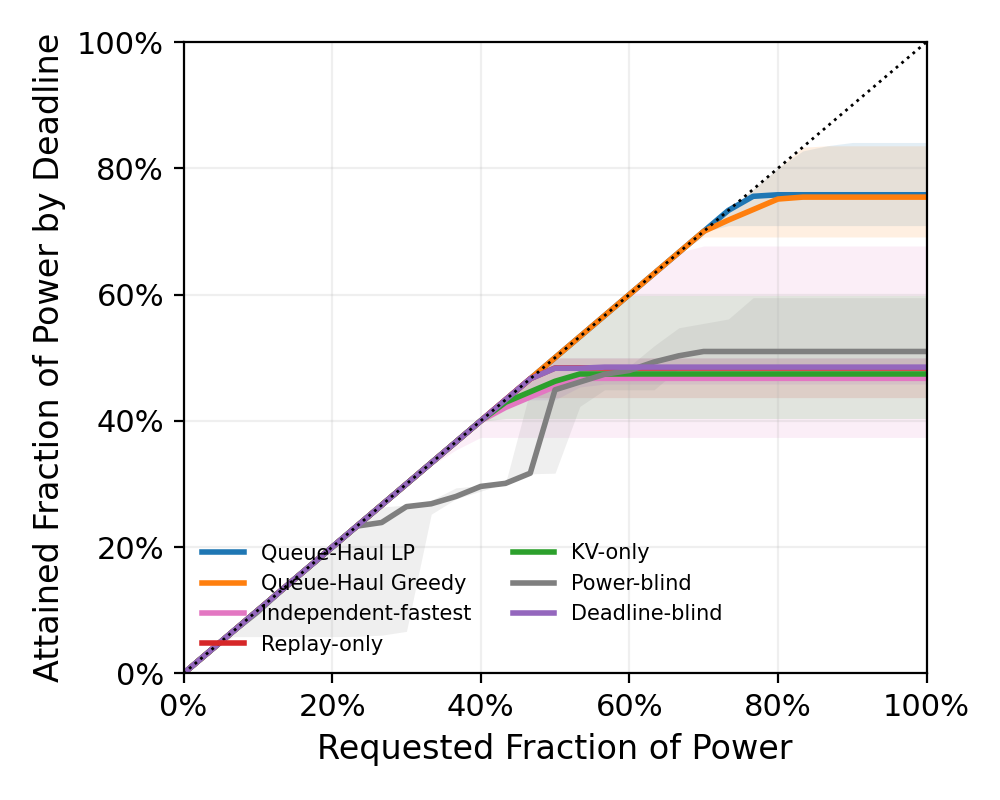
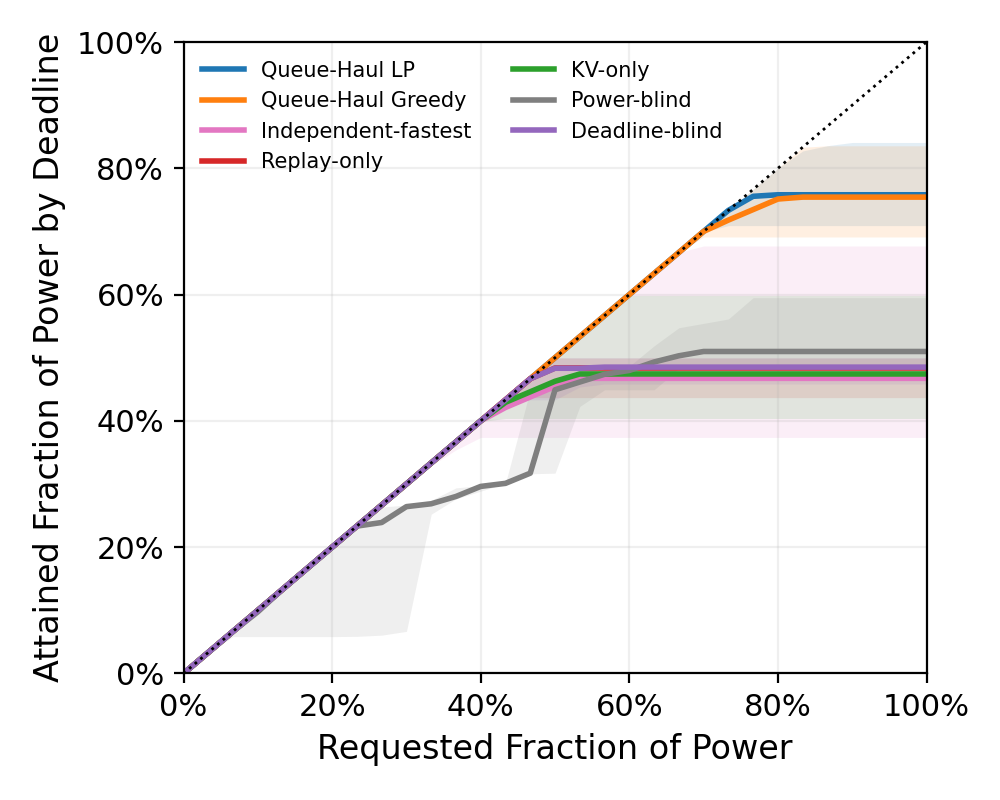
Move pooled frontier legend

diff --git a/agent-migrate/queue-haul/plot_pooled_shed_frontier.py b/agent-migrate/queue-haul/plot_pooled_shed_frontier.py
@@ -109,7 +109,7 @@ def write_plot(summary, out: Path) -> None:
     axis.yaxis.label.set_size(12)
     axis.grid(alpha=.2)
     axis.legend(frameon=False, fontsize=7.5, ncol=2,
-                loc="lower left")
+                loc="upper left")
     fig.tight_layout()
     for suffix in ("png", "pdf"):
         fig.savefig(out.with_suffix(f".{suffix}"), dpi=200)
